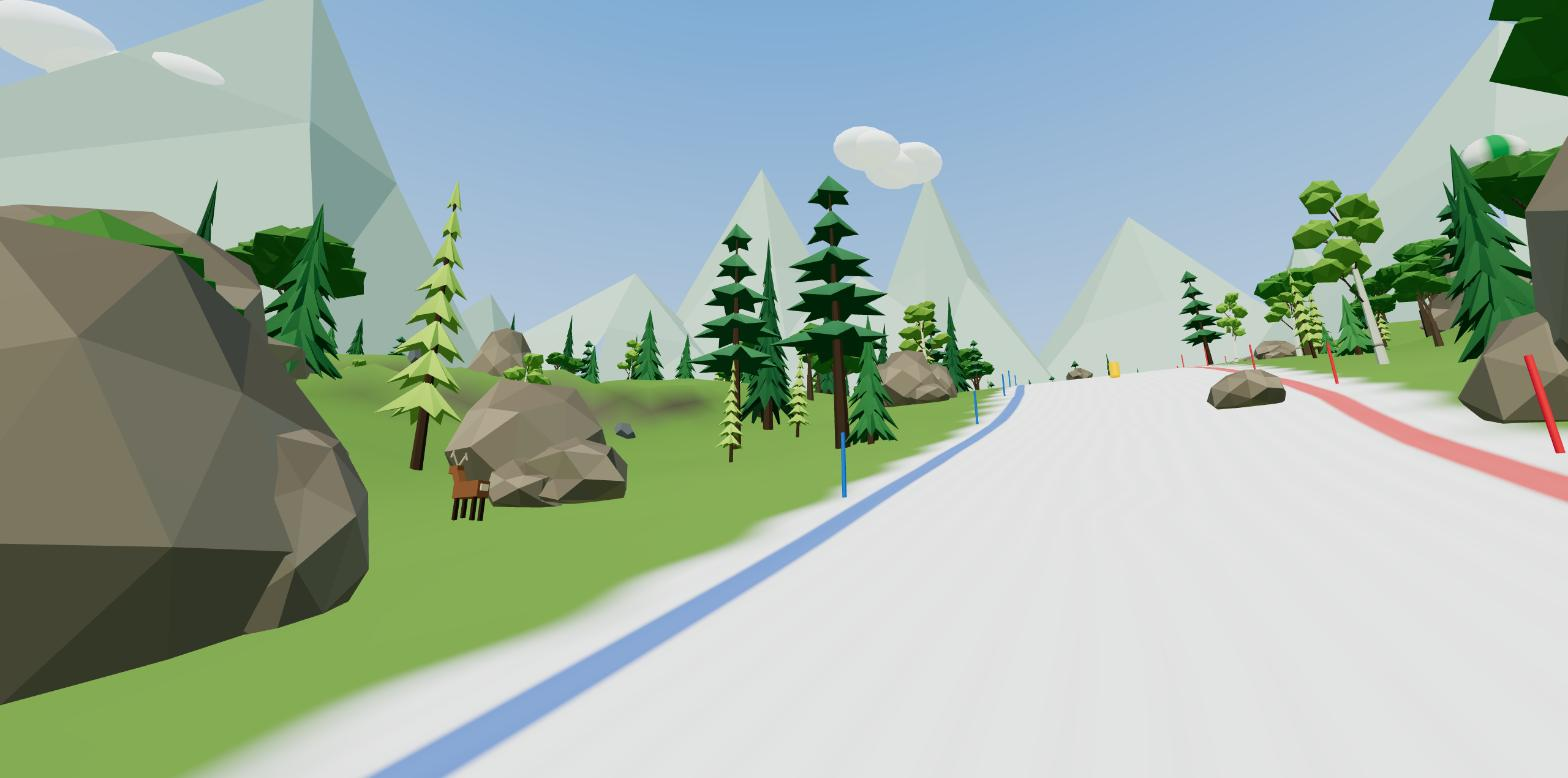
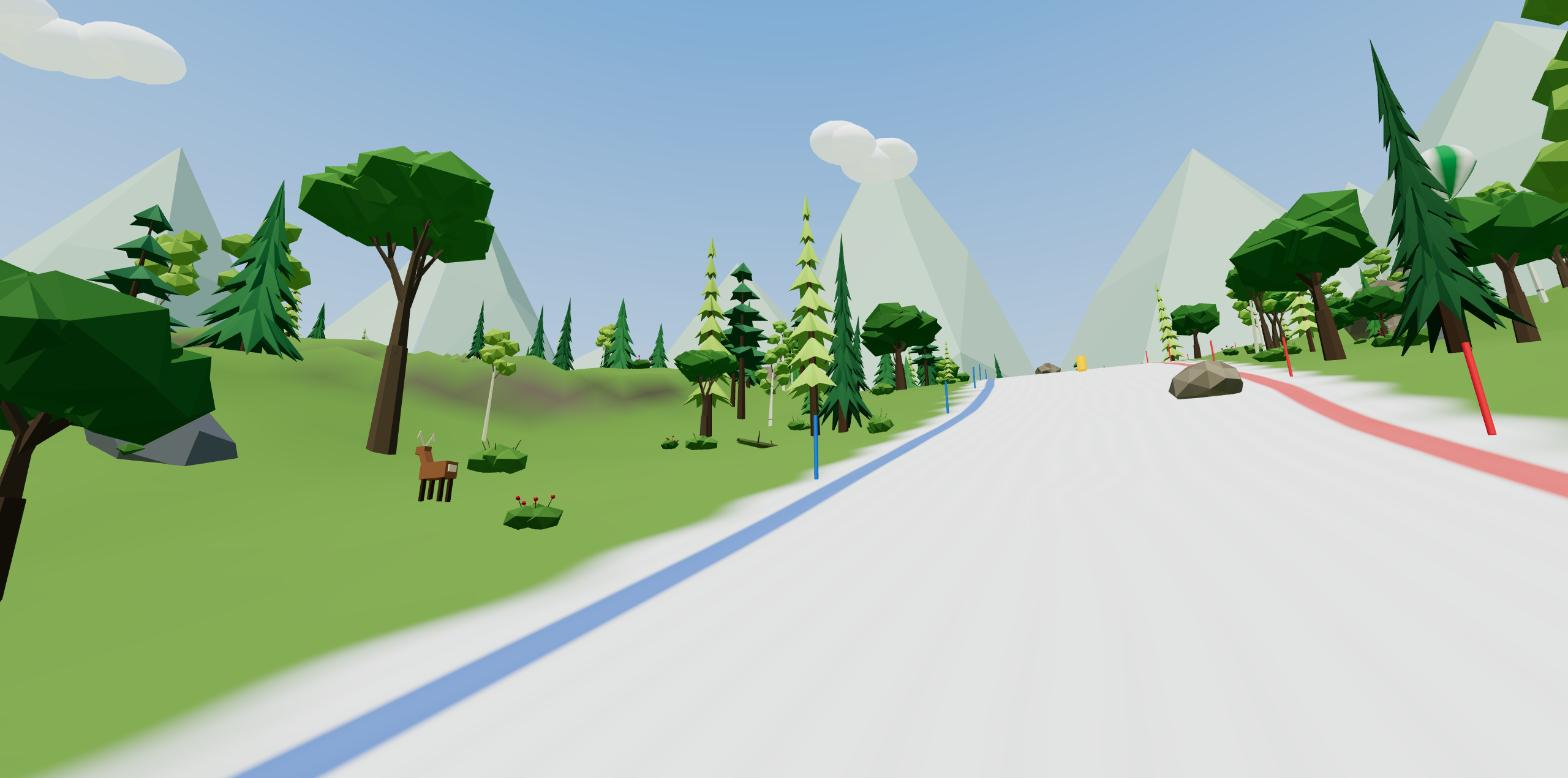
Document the forest; retake the tree screenshots

diff --git a/README.md b/README.md
@@ -170,12 +170,14 @@ Most of this is there to look at; the deer and the avalanche are the exceptions.
 
 ### Trees
 
-The forest is a mix of seven species, each with its own shape: spruce, Douglas fir (the tallest), white pine (a long bare trunk under level whorls), young fir, tamarack, elm and birch. Tamarack, elm and birch stand bare with snow on their limbs on the winter tracks and are in leaf on the two meadow tracks.
+The forest is a mix of eleven kinds of tree, each with its own shape: spruce, Douglas fir (the tallest), white pine (a long bare trunk under level whorls), young fir, cedar (a narrow column), tamarack, elm, birch, maple, aspen, and the odd dead snag. The trees that shed (tamarack, elm, birch, maple, aspen) stand bare with snow on their limbs on the winter tracks and are in leaf on the two meadow tracks.
+
+Under them is undergrowth, thickest along the edge of the course: bushes (some with red berries), stumps and fallen trunks. You can ride through all of it; only the trees themselves are solid.
 
 | | |
 |---|---|
 | ![Winter forest](docs/screenshots/trees-winter.jpg) | ![Meadow forest](docs/screenshots/trees-meadow.jpg) |
-| Winter: conifers under snow, bare elm, tamarack and birch | Meadow: the same species in leaf |
+| Winter: conifers under snow, bare broadleaf trees | Meadow: the same species in leaf, with berry bushes |
 
 ### Plunges
 
